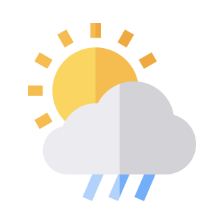
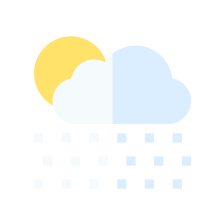
styling adjustments

Changed region(s): [[0.125, 0.0938, 0.875, 0.9062], [0.375, 0.75, 0.4688, 0.9062]]

diff --git a/style.css b/style.css
@@ -123,16 +123,16 @@ body.night {
     margin-top: 50px;
 }
 .col{
-    display: flex;
-    align-items:center ;
-    text-align: left;
+    display: flexbox;
+    align-items: center;
+    text-align: center;
 }
 .col img{
-    width: 40px;
-    margin-right: 10px;
+    width: 30px;
+    margin-bottom: 10px;
 }
 .humidity, .wind{
-    font-size: 28px;
+    font-size: 20px;
     margin-top: -6px;
 }
 .forecast {

diff --git a/index.html b/index.html
@@ -2,7 +2,7 @@
 <html>
     <head>
        <meta name="viewport" content="width=device-width, initial-scale=1.0">
-        <title>Weather App - Easy Tutorials</title>
+        <title>Weather App</title>
         <link rel="stylesheet" href="style.css">
     </head>
     <body>